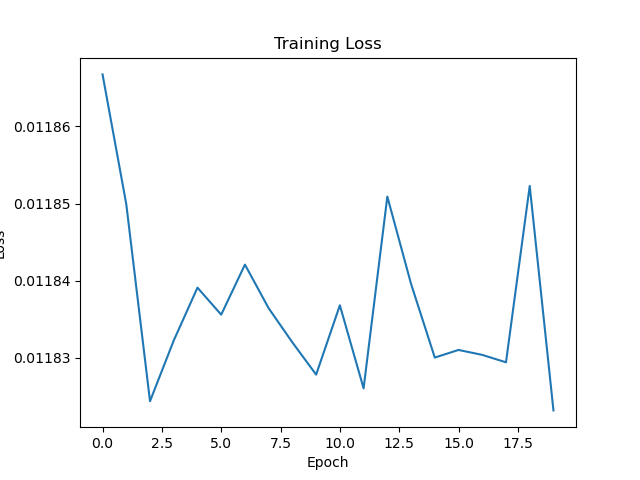
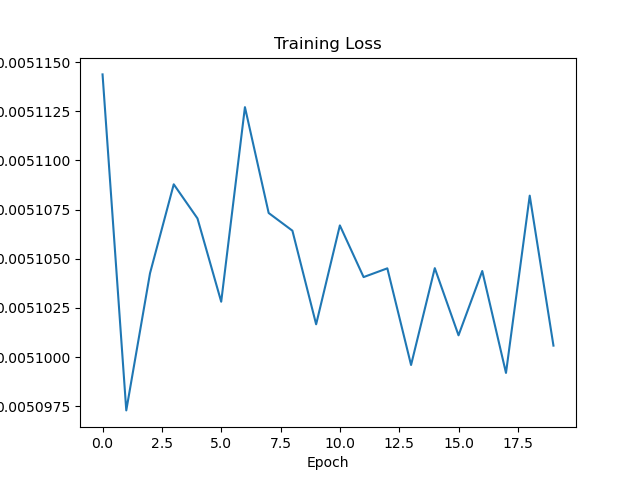
tried a few different GNN configurations

diff --git a/GNN-foraging-birds/GNN_foraging_birds.py b/GNN-foraging-birds/GNN_foraging_birds.py
@@ -1,17 +1,17 @@
 import numpy as np
-import numpy as np
 import torch
 from torch_geometric.data import Data
 from torch_geometric.loader import DataLoader
 from torch.nn import Sequential, Linear, ReLU, Module
-from torch_geometric.nn import GCNConv
+from torch_geometric.nn import GCNConv, ChebConv, global_add_pool, BatchNorm
 import torch.nn.functional as F
+from torch_geometric.utils import add_self_loops, degree
+
 
 import matplotlib.pyplot as plt
 import matplotlib.animation as animation
 from matplotlib import colors
 import csv
-from torch_geometric.nn import BatchNorm
 from sklearn.preprocessing import StandardScaler
 
 
@@ -116,19 +116,19 @@ def transform_position_velocity_for_gnn(position, velocity, grid_size=30):
     return tr_position, tr_velocity
 
 
-class GNN_foraging_simple(torch.nn.Module):
+class GNN_foraging_simplest(torch.nn.Module):
     def __init__(self, input_dim, hidden_dim, output_dim):
-        super(GNN_foraging_simple, self).__init__()
+        super(GNN_foraging_simplest, self).__init__()
         
         self.conv1 = GCNConv(input_dim, hidden_dim)
-        self.conv2 = GCNConv(hidden_dim, hidden_dim)
+        # self.conv2 = GCNConv(hidden_dim, hidden_dim)
         self.fc = Linear(hidden_dim, output_dim)
 
     def forward(self, x, edge_index):
         x = self.conv1(x, edge_index)
         x = ReLU()(x)
-        x = self.conv2(x, edge_index)
-        x = ReLU()(x)
+        # x = self.conv2(x, edge_index)
+        # x = ReLU()(x)
         x = self.fc(x)
         return x
 
@@ -171,11 +171,35 @@ class GNN_foraging_extended(Module):
         x = self.fc(x)
         return x
 
+class GNN_simpler(torch.nn.Module):
+    def __init__(self, input_dim, hidden_dim, output_dim):
+        super(GNN_simpler, self).__init__()
+
+        self.fc_in_hid = Linear(input_dim, hidden_dim)
+        self.fc_hid_out = Linear(hidden_dim, output_dim)
+        self.conv_hid_hid = GCNConv(hidden_dim, hidden_dim)
+        self.mpass = Linear(hidden_dim + input_dim, hidden_dim)
+
+    def forward(self, x, edge_index):
+        x1 = self.fc_in_hid(x)
+        x1 = ReLU()(x1)
+        x2 = self.mpass(torch.cat([x, x1], dim=1))
+        x2 = ReLU()(x2)
+        x3 = self.mpass(torch.cat([x, x2], dim=1))
+        x3 = ReLU()(x3)
+        x4 = self.conv_hid_hid(x3, edge_index)
+        x4 = ReLU()(x4)
+        x5 = self.fc_hid_out(x4)
+        x5 = ReLU()(x5)
+
+        return x5
+
+
 
 def train_GNN_model(dataset, hidden_dim=32, num_epochs=100, learning_rate=0.01, load_path=None, save_path=None):
     # inputs are positions and velocities, outputs are new velocities
     # Initialize the model and the optimizer
-    model = GNN_foraging_extended(input_dim=4, hidden_dim=hidden_dim, output_dim=2)  # 4 inputs (x, y, vx, vy), 2 outputs (vx, vy)
+    model = GNN_foraging_simplest(input_dim=4, hidden_dim=hidden_dim, output_dim=2)  # 4 inputs (x, y, vx, vy), 2 outputs (vx, vy)
     optimizer = torch.optim.Adam(model.parameters(), lr=learning_rate)
 
     # If a path is provided, load model parameters

diff --git a/GNN-foraging-birds/script_boid.py b/GNN-foraging-birds/script_boid.py
@@ -12,6 +12,9 @@ from matplotlib import colors
 import csv
 import os
 from datetime import datetime
+torch.device("mps")
+tensor = torch.rand(3,3)
+print(tensor.device)
 
 # make folder for gif outputs
 now = datetime.now()
@@ -22,15 +25,15 @@ os.makedirs(plots_dir, exist_ok=True)
 
 # Boids simulation parameters
 num_birds = 25
-num_steps_train = 150
+num_steps_train = 500
 num_sims_train = 150
-num_steps_test = 300
+num_steps_test = 500
 grid_size = 40
-neighbor_radius = 8
-close_radius = 5
+neighbor_radius = 5
+close_radius = 3
 alignment_weight = 0.1
 cohesion_weight = 0.05
-separation_weight = 0.1
+separation_weight = 0.05
 max_speed=.5
 
 # # Initial bird positions and velocities
@@ -53,12 +56,11 @@ def boid_model(positions, velocities):
 
 # Generate training dataset
 dataset = GNN_foraging_birds.generate_dataset_boid(num_birds, num_sims_train, num_steps_train, neighbor_radius, close_radius, alignment_weight, cohesion_weight, separation_weight, grid_size, max_speed)
-
 # Train GNN model
 for meta_epoch in range(20):
     print('Meta epoch: ', meta_epoch)
-    model = GNN_foraging_birds.train_GNN_model(dataset, hidden_dim=32, num_epochs=20, learning_rate=0.002, load_path='gnn_extended_params_boid.pth', save_path='gnn_extended_params_boid.pth')
-    torch.save(model.state_dict(), os.path.join(plots_dir, 'gnn_extended_params_boid_meta_epoch'+str(meta_epoch)+'.pth'))
+    model = GNN_foraging_birds.train_GNN_model(dataset, hidden_dim=32, num_epochs=20, learning_rate=0.002, load_path='gnn_params_boid.pth', save_path='gnn_params_boid.pth')
+    torch.save(model.state_dict(), os.path.join(plots_dir, 'gnn_params_boid_meta_epoch'+str(meta_epoch)+'.pth'))
 
     # Initial bird positions and velocities
     positions = np.random.rand(num_birds, 2) * grid_size
